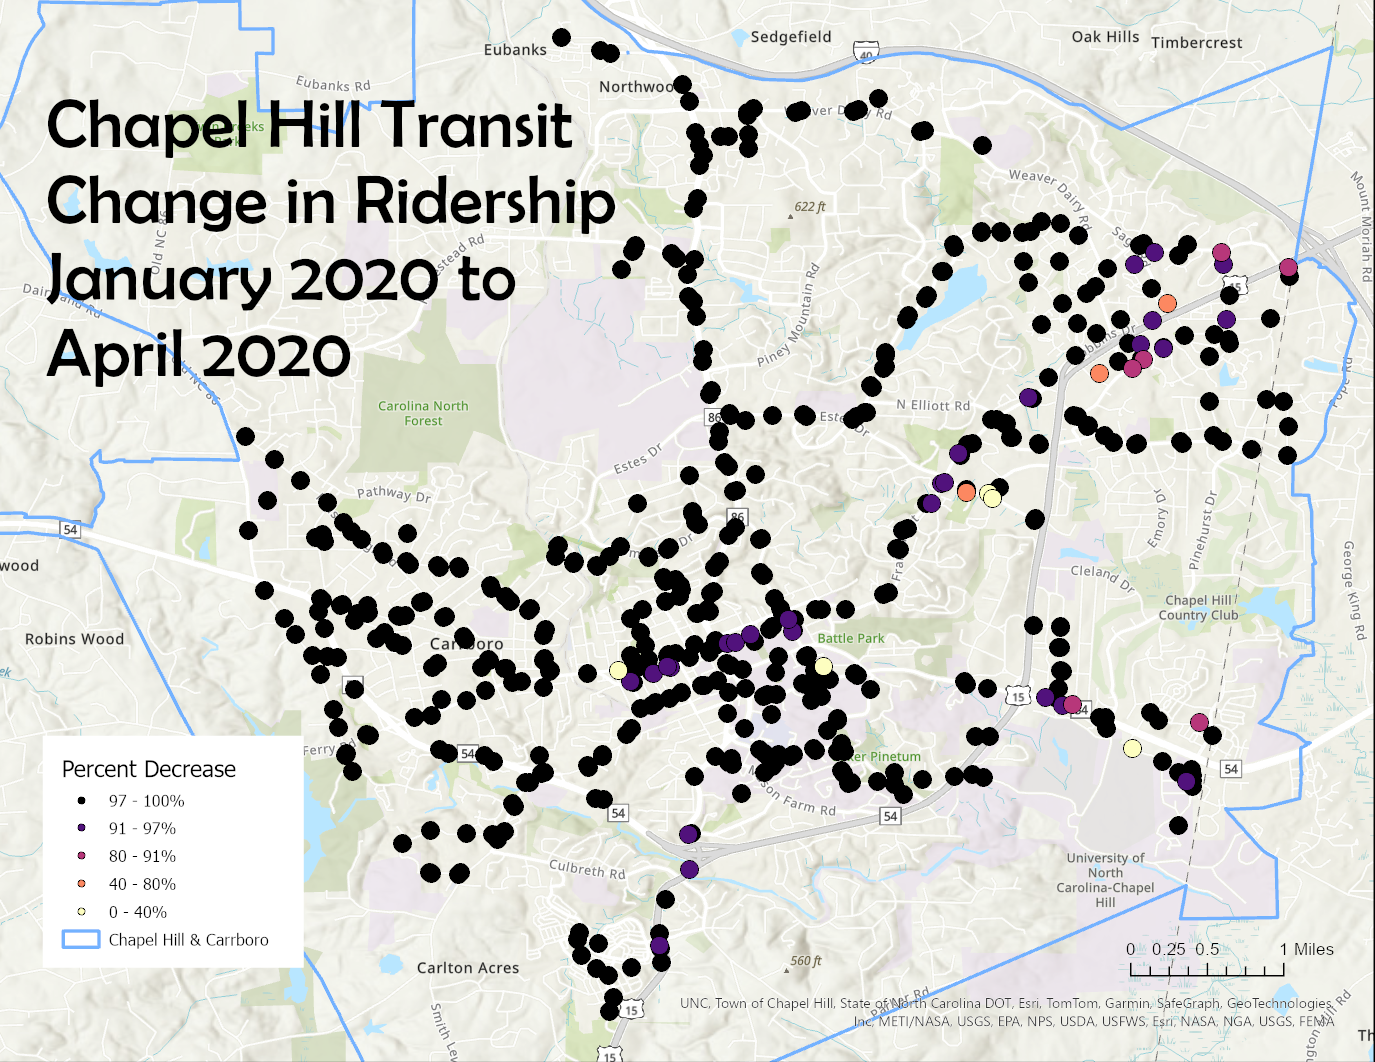
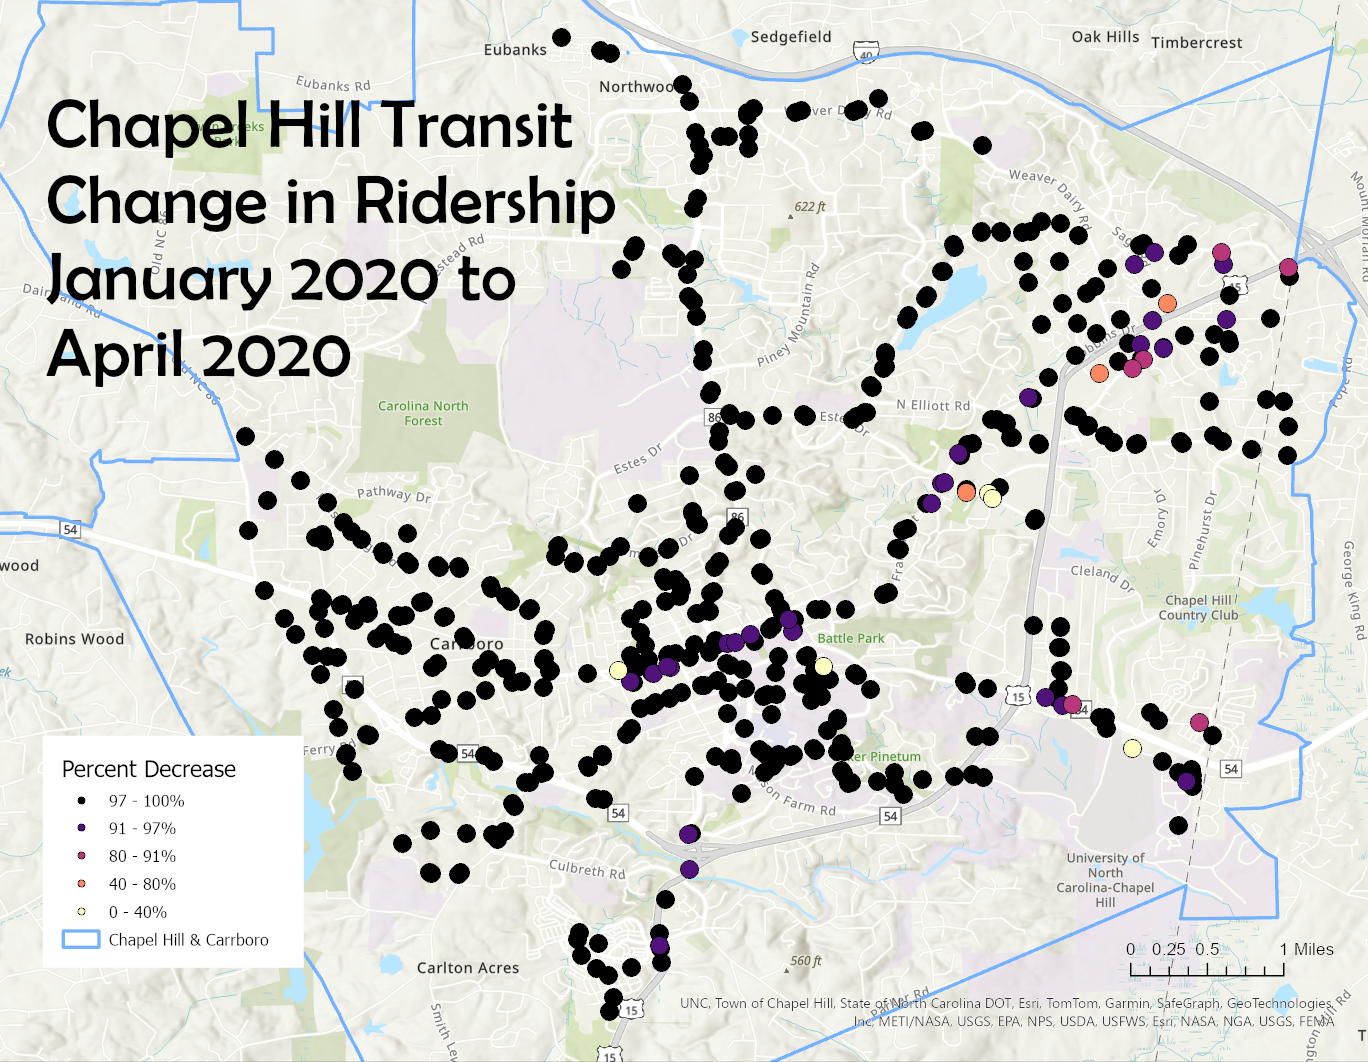
crop map

diff --git a/finalproject.html b/finalproject.html
@@ -48,7 +48,7 @@
     <img src = "data/covidRidership2.png" width = 600px><br><br>
 
     When compared with the ridership density map, it is clear that the largest stops were among those with the largest decreaese in ridership. <br><br>
-    <img src = "data/density2.png">
+    <img src = "data/density2.png" width = 600px>
 
     382 stops were reopened by January 2021, and by January 2022 over 500 were back in service. Ridership, however, has been much slower to recover. <br>
 
